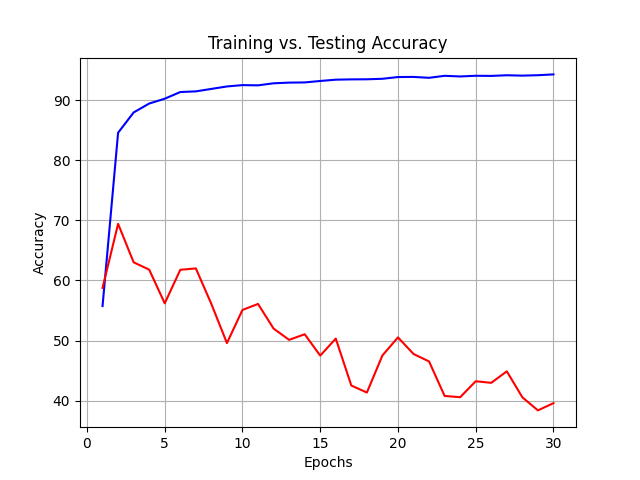
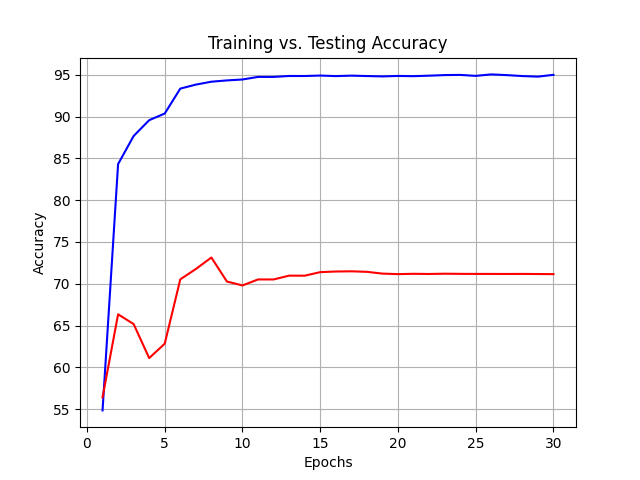
changed scheduler to plateau schedular instead of stepLR scheduler

diff --git a/trainNet.py b/trainNet.py
@@ -161,9 +161,10 @@ def main(FLAGS):
     # Using Adam optimizer
     optimizer = optim.Adam(model.parameters(), lr=FLAGS.learning_rate)
 
-    # learning rate scheduler
-    # decrease the learning rate by a factor of 1/10 every 5 epochs
-    scheduler = optim.lr_scheduler.StepLR(optimizer, step_size=5, gamma=0.1)
+    # learning rate scheduler - plateau scheduler
+    # decrease the learning rate by a factor of 1/10 if loss does not improve after 1 epoch after the current minimum.
+    scheduler = optim.lr_scheduler.ReduceLROnPlateau(optimizer, mode='min', factor=0.1, patience=1)
+
 
     # Intialize a best accuracy var
     best_accuracy = 0.0
@@ -185,7 +186,7 @@ def main(FLAGS):
         val_loss, val_acc = test(model, device, criterion, val_DL)
 
         # step the learning rate scheduler after each epoch
-        scheduler.step()
+        scheduler.step(val_loss)
 
         train_loss_list.append(train_loss)
         train_acc_list.append(train_acc)
